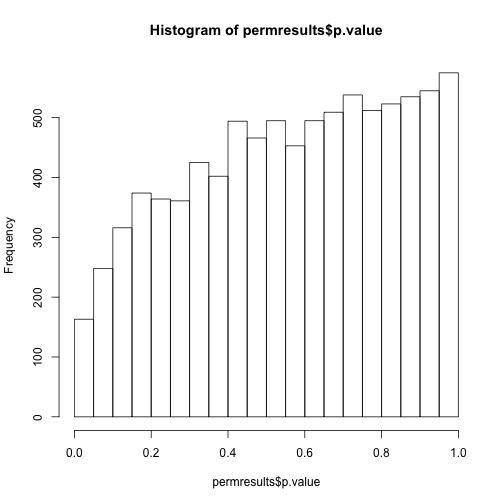
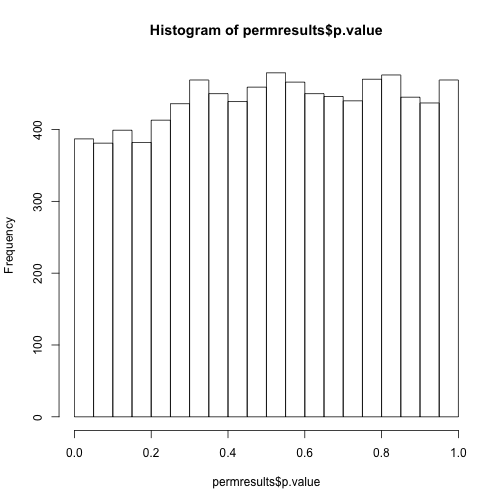
adding eda_for_highthroughput to book

diff --git a/manuscript/eda_for_highthroughput.md b/manuscript/eda_for_highthroughput.md
@@ -1,0 +1,153 @@
+---
+layout: page
+title: Basic EDA for high-throughput data
+---
+
+
+
+
+```r
+library(rafalib)
+```
+
+## Basic Exploratory Data Analysis 
+
+R markdown document for this section available [here](https://github.com/genomicsclass/labs/tree/master/course3/eda_for_highthroughput.Rmd).
+
+An under-appreciated advantage of working with high-throughput data is that problems with the data are sometimes more easily exposed than with low-throughput data. The fact that we have thousands of measurements permits us to see problems that are not apparent when only a few measurements are available. A powerful way to detect these problems is with exploratory data analysis (EDA). Here we review some of the plots that allow us to detect quality problems.
+We will use the results obtained from applying t-test to data from a gene expression dataset:
+
+
+```r
+library(genefilter)
+library(GSE5859Subset)
+data(GSE5859Subset)
+g <- factor(sampleInfo$group)
+results <- rowttests(geneExpression,g)
+pvals <- results$p.value
+```
+
+And we also generate p-values from a dataset for which we know the null is true:
+
+
+```r
+m <- nrow(geneExpression)
+n <- ncol(geneExpression)
+randomData <- matrix(rnorm(n*m),m,n)
+nullpvals <- rowttests(randomData,g)$p.value
+```
+
+#### Volcano Plots
+
+As we described above, reporting only p-values is a mistake when we can also report effect sizes. With high-throughput data, we can visualize the results by making a plot. The idea behind a _volcano plot_ is to show these for all features. In the y-axis we plot -log (base 10) p-values and on the x-axis we plot the effect size. By using - log (base 10), the "highly significant" features appear at the top of the plot. Using log also permits us to better distinguish between small and very small p-values, for example 0.01 and {$$}10^6{/$$}.  Here is the volcano plot for our results above:
+
+
+```r
+plot(results$dm,-log10(results$p.value),
+     xlab="Effect size",ylab="- log (base 10) p-values")
+```
+
+<img src="images/R/eda_for_highthroughput-tmp-volcano_plot-1.png" title="plot of chunk volcano_plot" alt="plot of chunk volcano_plot"  />
+
+Many features with very small p-values, but small effect sizes as we see here, are sometimes indicative of problematic data.
+
+#### p-value Histograms
+
+Another plot we can create to get an overall idea of the results is to make histograms of p-values. When we generate completely null data the histogram follows a uniform distribution (we will say more about this later). With our original data set we see a higher frequency of smaller p-values. 
+
+
+```r
+mypar(1,2)
+hist(nullpvals,ylim=c(0,1400))
+hist(pvals,ylim=c(0,1400))
+```
+
+![P-value histogram. We show a simulated case in which all null hypotheses are true (left) and p-values from the gene expression described above.](images/R/eda_for_highthroughput-tmp-pval-hist-1.png) 
+
+When we expect most hypothesis to be null and don't see a uniform p-value distribution, it might be indicative of unexpected properties, such as correlated samples. 
+
+If we permute the outcomes and calculate p-values then, if the samples are independent, we should see a uniform distribution. With these data we do not:
+
+
+```r
+permg <- sample(g)
+permresults <- rowttests(geneExpression,permg)
+hist(permresults$p.value)
+```
+
+![Histogram obtained after permuting labels.](images/R/eda_for_highthroughput-tmp-pval-hist2-1.png) 
+
+#### Data Boxplots and Histograms
+
+With high-throughput data we have thousands of measurements for each experimental unit. As mentioned earlier, this can help us detect quality issues. For example, if one sample has a completely different distribution than the rest, we might suspect there are problems. Although a complete change in distribution could be due to real biological differences, more often than not it is due to a technical problem. Here we load a large gene expression experiment available from Bioconductor. We "accidentally" use log instead of log2 on one of the samples.
+
+
+```r
+library(Biobase)
+library(GSE5859) 
+data(GSE5859) 
+ge <- exprs(e) ##ge for gene expression
+ge[,49] <- ge[,49]/log2(exp(1)) ##immitate error
+```
+
+A quick look at a summary of the distribution using boxplots immediately highlights the mistake:
+
+
+```r
+library(rafalib)
+mypar(1,1)
+boxplot(ge,range=0,names=1:ncol(e),col=ifelse(1:ncol(ge)==49,1,2))
+```
+
+![Boxplot for log-scale expression for all samples.](images/R/eda_for_highthroughput-tmp-boxplots-1.png) 
+
+Note that the number of samples is a bit too large here making it hard to see the boxes. One can instead simply show the boxplot summaries without (cite Karl Broman):
+
+
+```r
+qs <- t(apply(ge,2,quantile,prob=c(0.05,0.25,0.5,0.75,0.95)))
+matplot(qs,type="l",lty=1)
+```
+
+![The 0.05, 0.25, 0.5, 0.75, and 0.95 quantiles are plotted for each sample.](images/R/eda_for_highthroughput-tmp-kaboxplot-1.png) 
+
+We can also plot all the histograms. Because we have so much data we create histograms using small bins, then smooth the heights of the bars and then plot _smooth histograms_. We re-calibrate the height of these smooth curves so that if a bar is made with base of size "unit" and height given by the curve at {$$}x_0{/$$}, the area approximates the number of points in region of size "unit" centered at {$$}x_0{/$$}:
+
+
+```r
+mypar(1,1)
+shist(ge,unit=0.5)
+```
+
+![Smooth histograms for each sample.](images/R/eda_for_highthroughput-tmp-shist-1.png) 
+
+#### MA Plot
+
+Scatterplots and correlation are not the best tools to detect replication problems. Note, for example, that 1,2,3,4 and 100,200,300,400 are two lists with very different values yet have perfect correlation. A better measure of replication can be obtained from examining the differences between the values that should be the same. Therefore, a better plot is a rotation of the scatterplot containing the differences on the y-axis and the averages on the x-axis. This plot was originally named a Bland-Altman plot, but in the genomics world it is commonly referred to as an MA-plot. The name MA comes from plots of red log intensity minus (M) green intensities versus average (A) log intensities used with microarrays (MA) data.
+
+
+```r
+x <- ge[,1]
+y <- ge[,2]
+mypar(1,2)
+plot(x,y)
+plot((x+y)/2,x-y)
+```
+
+![Scatter plot (left) and M versus A plot (right) for the same data.](images/R/eda_for_highthroughput-tmp-maplot-1.png) 
+
+Note that once we rotate the plot, the fact that these data have differences of about:
+
+
+```r
+sd(y-x)
+```
+
+```
+## [1] 0.2025465
+```
+
+becomes immediate. The scatterplot shows very strong correlation, which is not necessarily informative here.
+
+We will later introduce dendograms, heatmaps, and multi-dimensional scaling plots.
+
